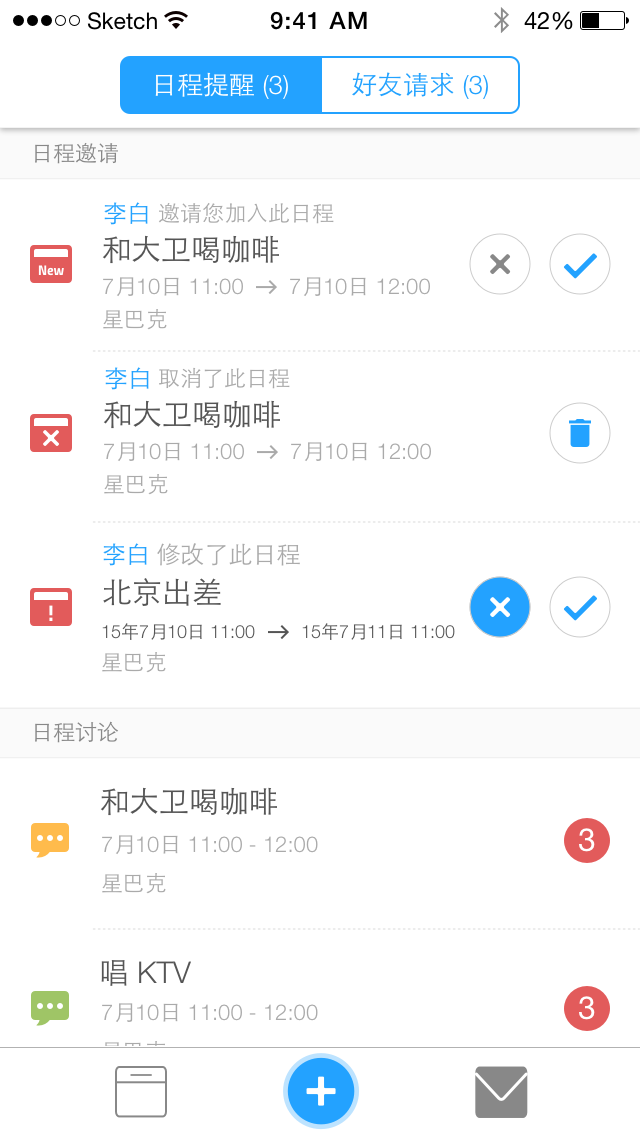
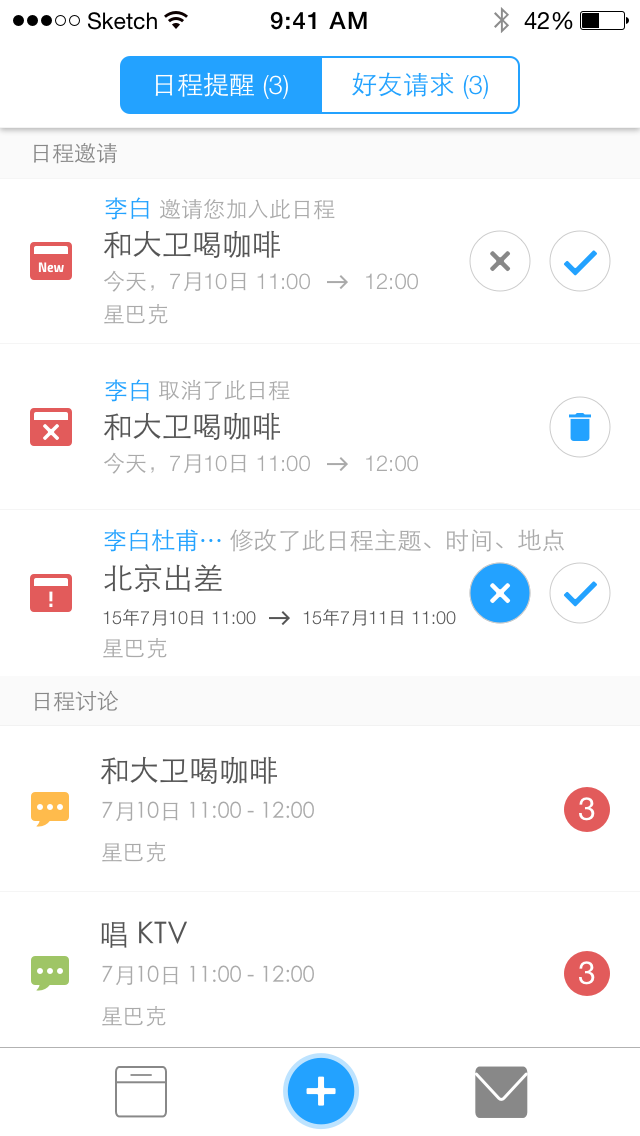
add event_news

diff --git a/project/prd/event_news.html b/project/prd/event_news.html
@@ -26,7 +26,7 @@
 		<div class="main">
 			<div class="light small meta">
 				<p>版本：1.0</p>
-				<p>更新：2014-8-20</p>
+				<p>更新：2014-9-4</p>
 			</div>
 
 			<h1>消息视图需求文档</h1>
@@ -44,15 +44,70 @@
 			</ul>
 			<div class="img_bc">
 				<span><img src="./img/event_news_01.png" class="ui_img"></span>
+				<span><img src="./img/event_news_03.png" class="ui_img"></span>
 			</div>
 
 			<h2>2 日程提醒</h2>
+
 			<h3>2.1 日程邀请</h3>
 			<h3>日程邀请包括3类情况：新日程邀请，日程被删除，日程更新。</h3>
+			<p>在日程邀请中，左侧显示提醒的类别。中间的文字区域高度最大为130px</p>
+			<p>第一行显示管理员名称和日程操作的文字，第二行是日程主题，第三行是时间，第四行是地点。</p>
+			<p>主题最多显示10个字，后面用省略号代替；名字最多显示4个字,其余用省略号代替</p>
+			<p><strong class="red">点击日程邀请，进入日程详情页面</strong></p>
+
 			<h4>2.1.1 新日程邀请</h4>
 			<div class="img_bc">
 				<span><img src="./img/event_news_02.png" class="ui_img"></span>
-			</div>			
+				<span><img src="./img/event_news_06.png" class="ui_img"></span>
+			</div>
+			<p>新日程邀请，出现在<strong>日程邀请</strong>栏中，按照时间顺序排列。</p>
+			
+			<p>时间的格式如下：</p>
+			<ul>
+				<li>提供：今天，明天，后天，下周，下月，明年的快捷时间提示</li>
+				<li>如果是跨天：X月X日 XX:XX -> X月X日 XX:XX；如果跨年，日期前面加上年份的后两位。</li>
+				<li>邀请时间如果不是今年，则日期前面添加年份的后两位</li>
+				<li>提供接受和拒绝两个按钮</li>
+			</ul>
+			<p><strong>接受日程后，“日程邀请”列表中该日程消失；“日程讨论”列表中出现该日程</strong></p>
+			<p><strong>拒绝日程后，弹出提示框，选择“是的”之后该日程消失</strong></p>
+
+			<h4>2.1.2 日程被删除</h4>
+			<div class="img_bc">
+				<span><img src="./img/event_news_04.png" class="ui_img"></span>
+				<span><img src="./img/event_news_08.png" class="ui_img"></span>
+			</div>
+			<p>日程被删除，参与者在“日程邀请”列表中收到提醒，只提供删除按钮</p>
+			<p><strong class="red">管理员删除日程后，参与者的日历直接删除，同时消息列表中出现日程被删除的通知</strong></p>
+			<p>点击删除按钮之后，不需要弹框，该消息直接被删除</p>
+
+			<h4>2.1.3 日程更新</h4>
+			<div class="img_bc">
+				<span><img src="./img/event_news_05.png" class="ui_img"></span>
+			</div>
+			<p>管理员更新日程中的主题/时间/地点，参与者收到新的日程邀请</p>
+			<p>更新日程的邀请，操作和日程邀请一致</p>
+			<p><strong class="red">如果更新了时间和地点，对应的文字颜色从"AAAAAA"变为"555555"</strong></p>
+
+			<h3>2.2 日程消息</h3>
+			<p>当日程中有人发言时，其余参与者会收到日程消息</p>
+			<p><strong class="red">点击日程消息，进入日程讨论页面</strong></p>
+			<div class="img_bc">
+				<span><img src="./img/event_news_09.png" class="ui_img"></span>
+			</div>
+
+			<p>日程讨论左侧icon的颜色对应不同的日程类别</p>
+			<p>日程讨论右侧，显示未读消息数</p>
+			<p><strong>出现未读消息的日程，跳到列表的顶部；已经有未读消息，再发送消息，日程位置不变化</strong></p>
+			<ul>
+				<li>没有未读消息的日程，突然出现未读消息，提醒数字为1，日程跳到顶部</li>
+				<li>有未读消息的日程，有新留言，提醒数字+1，日程位置不变</li>
+			</ul>
+
+
+			<h2>3 好友请求</h2>
+			
 
 		</div>
 		

diff --git a/project/prd/structure.html b/project/prd/structure.html
@@ -26,7 +26,7 @@
 		<div class="main">
 			<div class="light small meta">
 				<p>版本：1.0</p>
-				<p>更新：2014-8-20</p>
+				<p>更新：2014-9-4</p>
 			</div>
 
 			<h1>整体布局产品需求文档</h1>
@@ -58,6 +58,11 @@
 
 			<div>
 				<video src="http://sortime.oss-cn-hangzhou.aliyuncs.com/prd/structure.mov" controls="controls"></video>
+			</div>
+
+			<h3>4 日程管家整体流程图</h3>
+			<div class="img_bc">
+				<span><a href="./img/flow_chart.jpg"><img src="./img/flow_chart.jpg" class="chart_img"></a></span>
 			</div>
 
 		</div>

diff --git a/project/prd/settings.html b/project/prd/settings.html
@@ -25,7 +25,7 @@
 	<div class="main">
 			<div class="light small meta">
 				<p>版本：1.0</p>
-				<p>更新：2014-8-22</p>
+				<p>更新：2014-8-26</p>
 			</div>
 
 			<h1>系统设置</h1>
